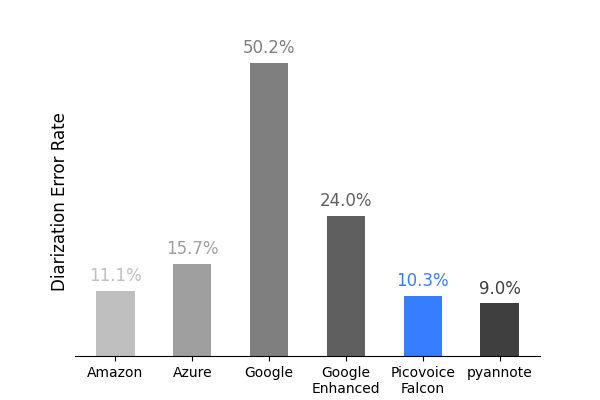
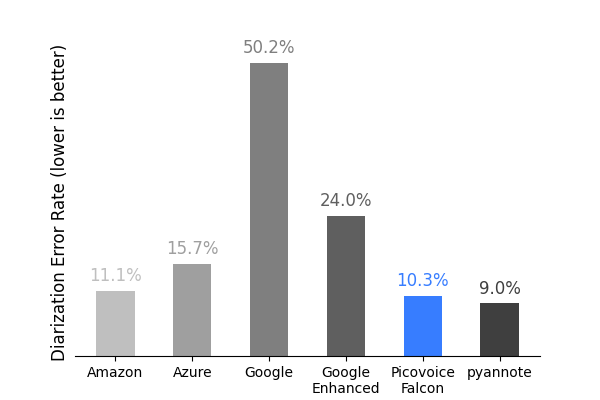
lower is always better?

Changed region(s): [[0.09, 0.12, 0.12, 0.9]]

diff --git a/plot_results.py b/plot_results.py
@@ -103,7 +103,7 @@ def _plot_accuracy(
                 color=ENGINE_COLORS[engine_type],
             )
 
-        ax.set_ylabel(metric.title(), fontsize=12)
+        ax.set_ylabel(f"{metric.title()} (lower is better)", fontsize=12)
         ax.spines["top"].set_visible(False)
         ax.spines["right"].set_visible(False)
         ax.spines["left"].set_visible(False)
@@ -167,7 +167,7 @@ def _plot_cpu(
     plt.xlim([0, x_limit + 50])
     ax.set_xticks([])
     ax.set_ylim([-0.5, 1.5])
-    plt.title("Core-hour required to process 100 hours of audio", fontsize=12)
+    plt.title("Core-hour required to process 100 hours of audio (lower is better)", fontsize=12)
     plot_path = os.path.join(save_path, "cpu_usage_comparison.png")
     os.makedirs(os.path.dirname(plot_path), exist_ok=True)
     plt.savefig(plot_path)
@@ -226,7 +226,7 @@ def _plot_mem(
     ax.spines["right"].set_visible(False)
     ax.set_xticks([])
     ax.set_ylim([-0.5, 1.5])
-    plt.title("Total Memory Usage per instance", fontsize=12)
+    plt.title("Total Memory Usage per instance (lower in better)", fontsize=12)
     plot_path = os.path.join(save_path, "mem_usage_comparison.png")
     os.makedirs(os.path.dirname(plot_path), exist_ok=True)
     plt.savefig(plot_path)
